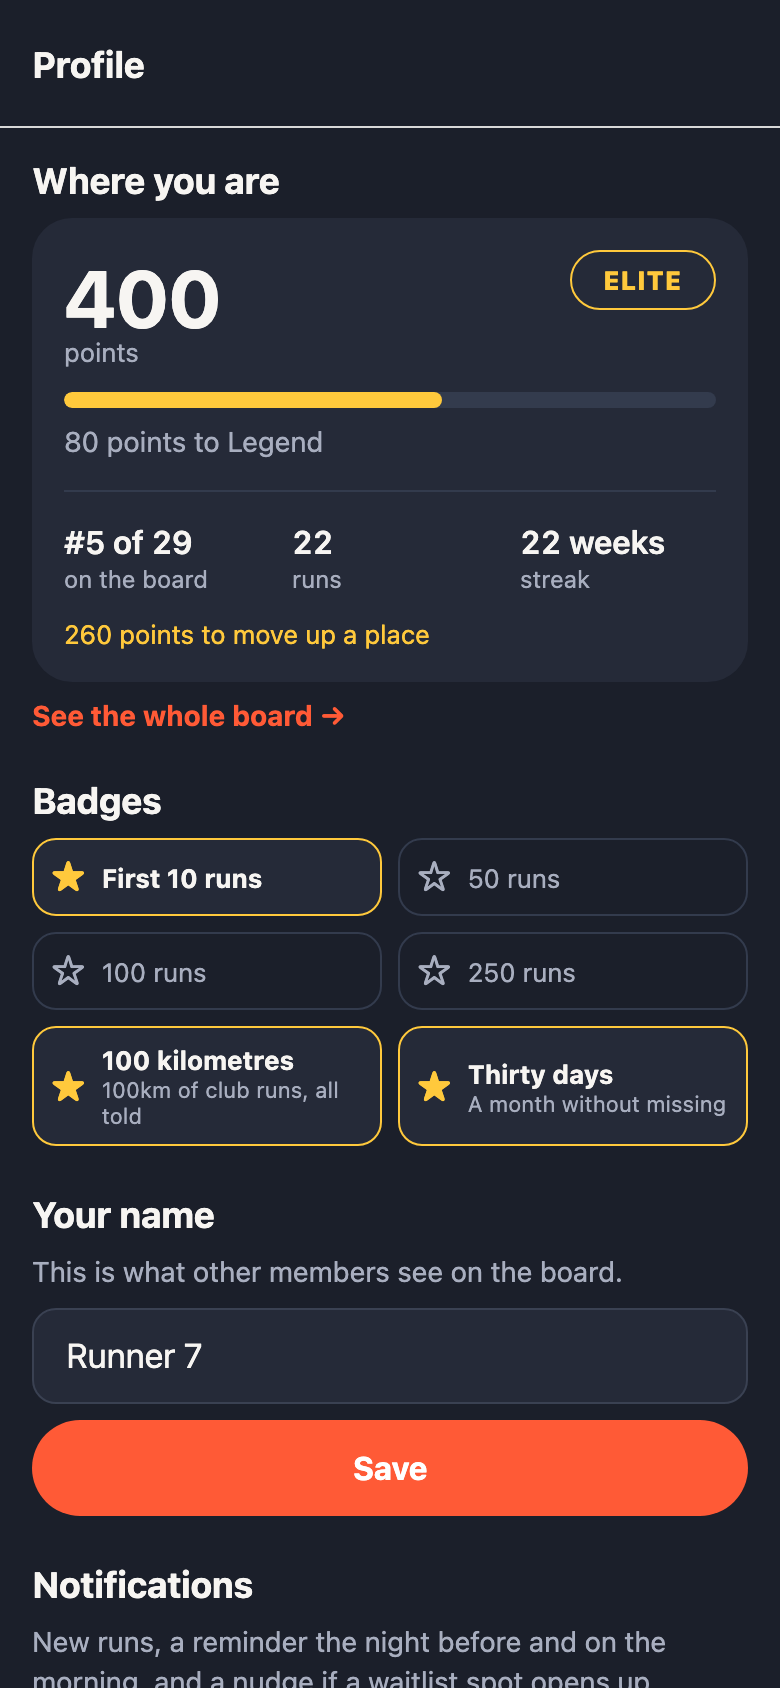
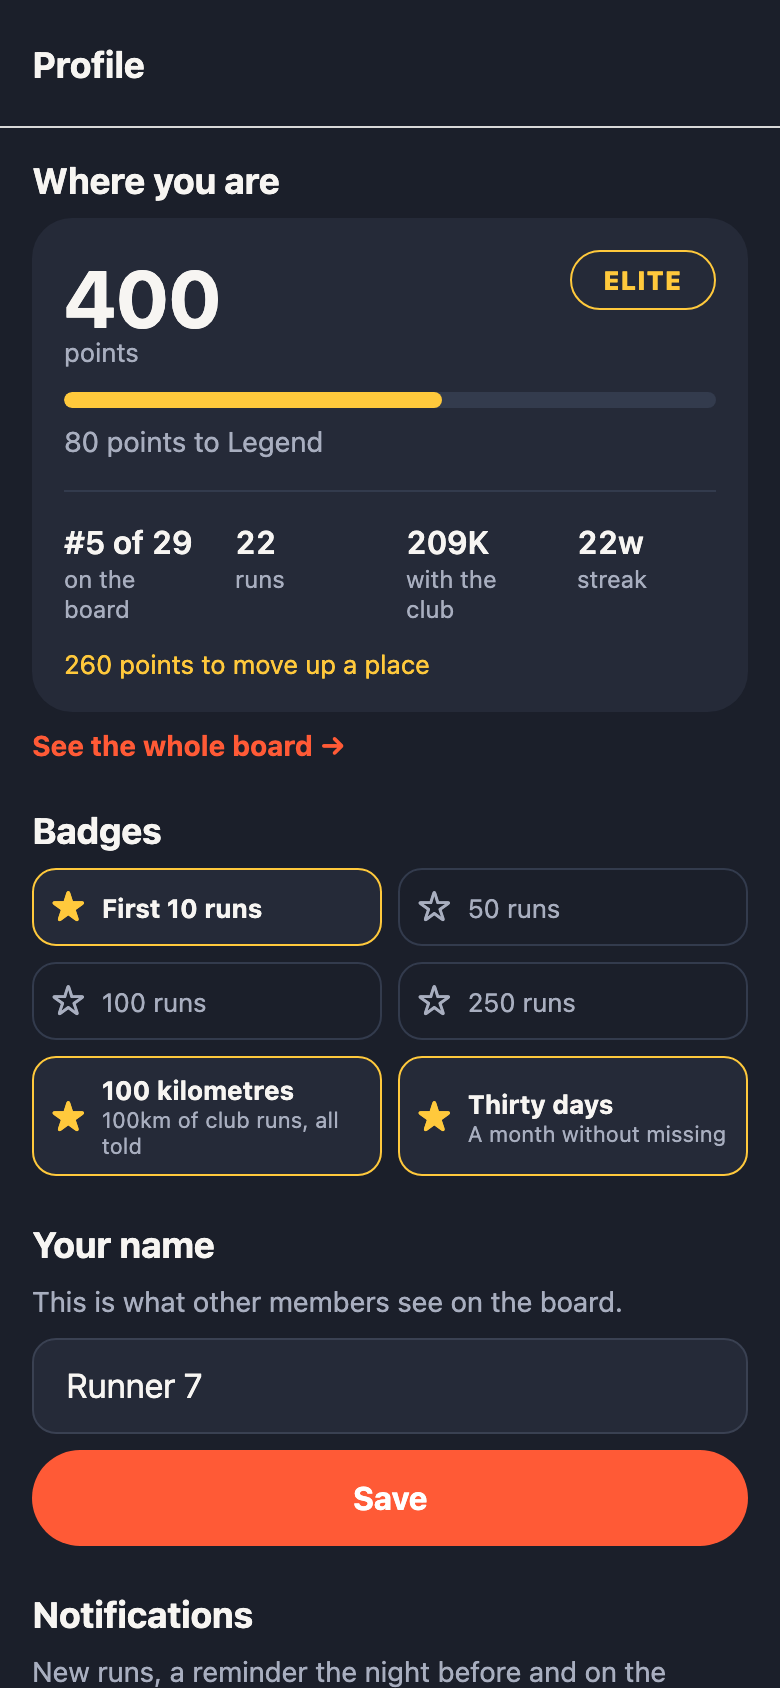
API docs: my_distance_meters, and a title that stopped counting phases
The doc covers the whole system; naming three phases in the title just made
it read stale the moment Phase 4 landed. The profile still is refreshed to
show the four-stat row.

diff --git a/docs/api.md b/docs/api.md
@@ -1,4 +1,4 @@
-# MVMNT API — Phases 1, 2 and 3
+# MVMNT API
 
 Every backend capability, with its purpose, inputs, outputs, permissions and
 errors (Engineering Principles §8).
@@ -202,6 +202,13 @@ total re-derives from valid check-ins, so an organiser undoing a mistaken
 check-in silently and correctly takes the points back.
 
 ### `points_total(p_user_id uuid = auth.uid(), p_since timestamptz = null) → integer`
+
+### `my_distance_meters() → bigint`
+
+Kilometres with the club: the sum of stated distances of completed runs the
+caller checked in to. Own data only, and no GPS trace or health data behind
+it — attendance × the run's advertised distance is the club's honest number
+(App Spec §4.7's club-side half; the personal half is Phase 5, ADR 0005).
 
 ### `my_standing(p_window text = 'all_time') → row`
 
